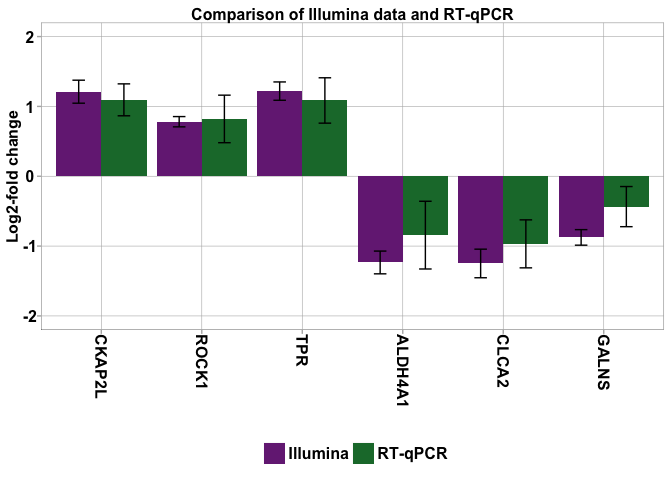
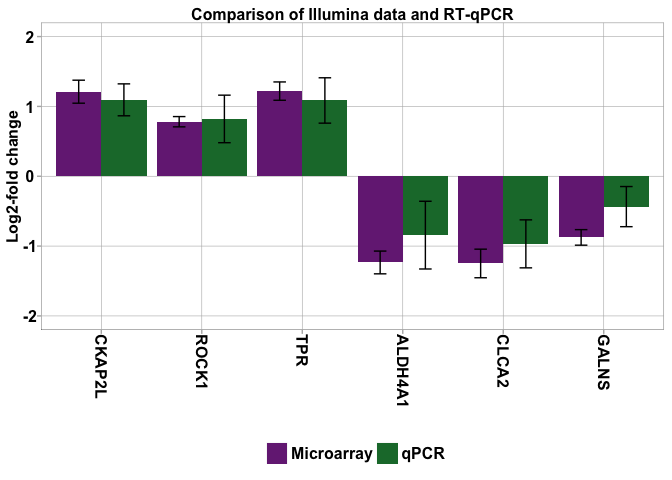
update knit

Changed region(s): [[0.375, 0.9062, 0.6875, 0.9688]]

diff --git a/ReproducibleScript.md b/ReproducibleScript.md
@@ -3,6 +3,12 @@ Reproducible script for the publication
 Weinholdt Claus
 2018-24-4
 
+<!--   html_document:
+    toc: true
+    theme: united
+  pdf_document:
+    toc: true
+    highlight: zenburn -->
 Weinholdt et. al **Analysis of genes regulated by isoforms of the epidermal growth factor receptor in a glioblastoma cell line**
 
 Contents
@@ -51,14 +57,16 @@ normData <- normalizeExpData()
 
 ### Calulating the log likelihood for each gene in each class (*a, b, c, and d*)
 
-We define that: - Genes of group *a* are never regulated by EGF, whereas genes of groups *b* − *d* are regulated by EGF. - Genes of group *b* are regulated by EGF only through other receptors besides EGFR isoforms. - Genes of group *c* are regulated by EGFR isoforms II - IV and not by other receptors. - Genes of group *d* are regulated by EGFR isoform I and not other receptors or EGFR isoforms II - IV. <!--  Based on this reduction, we can now formulate the goal of this work as the identification of putative target genes regulated by EGFR isoforms II - IV and not by other receptors or more crisply as the goal of identifying genes of group $c$. -->
+We define that: \* Genes of group *a* are never regulated by EGF, whereas genes of groups *b* − *d* are regulated by EGF. \* Genes of group *b* are regulated by EGF only through other receptors besides EGFR isoforms. \* Genes of group *c* are regulated by EGFR isoforms II - IV and not by other receptors. \* Genes of group *d* are regulated by EGFR isoform I and not other receptors or EGFR isoforms II - IV. <!--  Based on this reduction, we can now formulate the goal of this work as the identification of putative target genes regulated by EGFR isoforms II - IV and not by other receptors or more crisply as the goal of identifying genes of group $c$. -->
 
 ``` r
 Lsets <- get.Lset()
 normDataLogLik <- logLikelihoodOfnormData(normData$E)
 ```
 
-#### Density plots with fitted normal distribution
+#### Schematic Expression Pattern
+
+![](ReproducibleScript_files/figure-markdown_github/schematic%20gr-1.png) \#\#\#\# Density plots with fitted normal distribution
 
 ``` r
 GeneExample <- c('ILMN_1687840','ILMN_1684585','ILMN_1730999','ILMN_2320964') 
@@ -173,19 +181,19 @@ TPR       ILMN_1730999   c1     8.384344   0.0213682  TPR::ILMN_1730999
 
 ![](ReproducibleScript_files/figure-markdown_github/barplot%20FC-1.png)
 
-| Gene    | ExpID         | Set      |          FC|     stderr| pid                    |
-|:--------|:--------------|:---------|-----------:|----------:|:-----------------------|
-| ALDH4A1 | ILMN\_1696099 | Illumina |  -1.2344339|  0.1628566| ALDH4A1::ILMN\_1696099 |
-| ALDH4A1 | ILMN\_1696099 | RT-qPCR  |  -0.8431039|  0.4848167| ALDH4A1::ILMN\_1696099 |
-| CKAP2L  | ILMN\_1751776 | Illumina |   1.2106958|  0.1647013| CKAP2L::ILMN\_1751776  |
-| CKAP2L  | ILMN\_1751776 | RT-qPCR  |   1.0941976|  0.2285730| CKAP2L::ILMN\_1751776  |
-| CLCA2   | ILMN\_1803236 | Illumina |  -1.2488407|  0.2046290| CLCA2::ILMN\_1803236   |
-| CLCA2   | ILMN\_1803236 | RT-qPCR  |  -0.9681039|  0.3435681| CLCA2::ILMN\_1803236   |
-| GALNS   | ILMN\_1737949 | Illumina |  -0.8756972|  0.1113025| GALNS::ILMN\_1737949   |
-| GALNS   | ILMN\_1737949 | RT-qPCR  |  -0.4347706|  0.2874267| GALNS::ILMN\_1737949   |
-| ROCK1   | ILMN\_1808768 | Illumina |   0.7808615|  0.0735355| ROCK1::ILMN\_1808768   |
-| ROCK1   | ILMN\_1808768 | RT-qPCR  |   0.8206860|  0.3403608| ROCK1::ILMN\_1808768   |
-| TPR     | ILMN\_1730999 | Illumina |   1.2190839|  0.1312655| TPR::ILMN\_1730999     |
-| TPR     | ILMN\_1730999 | RT-qPCR  |   1.0850383|  0.3248168| TPR::ILMN\_1730999     |
+| Gene    | ExpID         | Set        |          FC|     stderr| pid                    |
+|:--------|:--------------|:-----------|-----------:|----------:|:-----------------------|
+| ALDH4A1 | ILMN\_1696099 | Microarray |  -1.2344339|  0.1628566| ALDH4A1::ILMN\_1696099 |
+| ALDH4A1 | ILMN\_1696099 | qPCR       |  -0.8431039|  0.4848167| ALDH4A1::ILMN\_1696099 |
+| CKAP2L  | ILMN\_1751776 | Microarray |   1.2106958|  0.1647013| CKAP2L::ILMN\_1751776  |
+| CKAP2L  | ILMN\_1751776 | qPCR       |   1.0941976|  0.2285730| CKAP2L::ILMN\_1751776  |
+| CLCA2   | ILMN\_1803236 | Microarray |  -1.2488407|  0.2046290| CLCA2::ILMN\_1803236   |
+| CLCA2   | ILMN\_1803236 | qPCR       |  -0.9681039|  0.3435681| CLCA2::ILMN\_1803236   |
+| GALNS   | ILMN\_1737949 | Microarray |  -0.8756972|  0.1113025| GALNS::ILMN\_1737949   |
+| GALNS   | ILMN\_1737949 | qPCR       |  -0.4347706|  0.2874267| GALNS::ILMN\_1737949   |
+| ROCK1   | ILMN\_1808768 | Microarray |   0.7808615|  0.0735355| ROCK1::ILMN\_1808768   |
+| ROCK1   | ILMN\_1808768 | qPCR       |   0.8206860|  0.3403608| ROCK1::ILMN\_1808768   |
+| TPR     | ILMN\_1730999 | Microarray |   1.2190839|  0.1312655| TPR::ILMN\_1730999     |
+| TPR     | ILMN\_1730999 | qPCR       |   1.0850383|  0.3248168| TPR::ILMN\_1730999     |
 
 Note that the `echo = FALSE` parameter was added to the code chunk to prevent printing of the R code that generated the plot.
